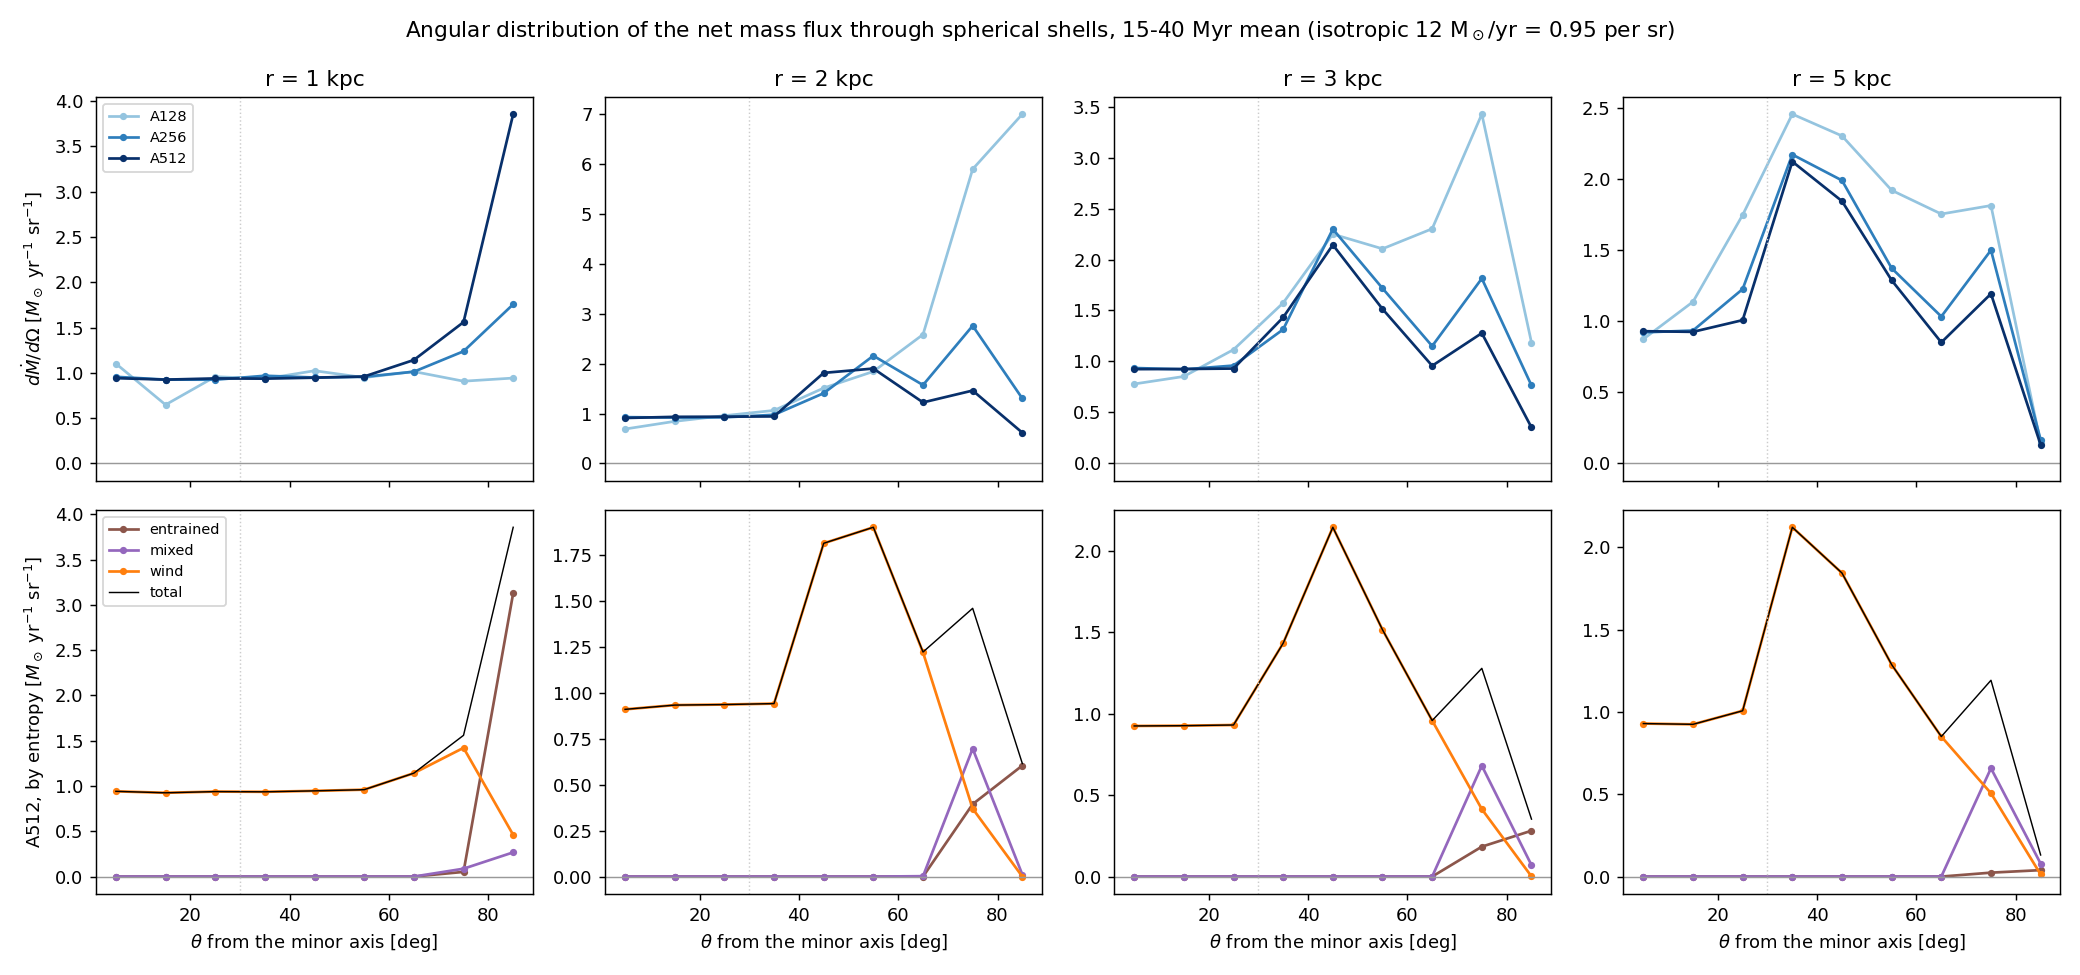
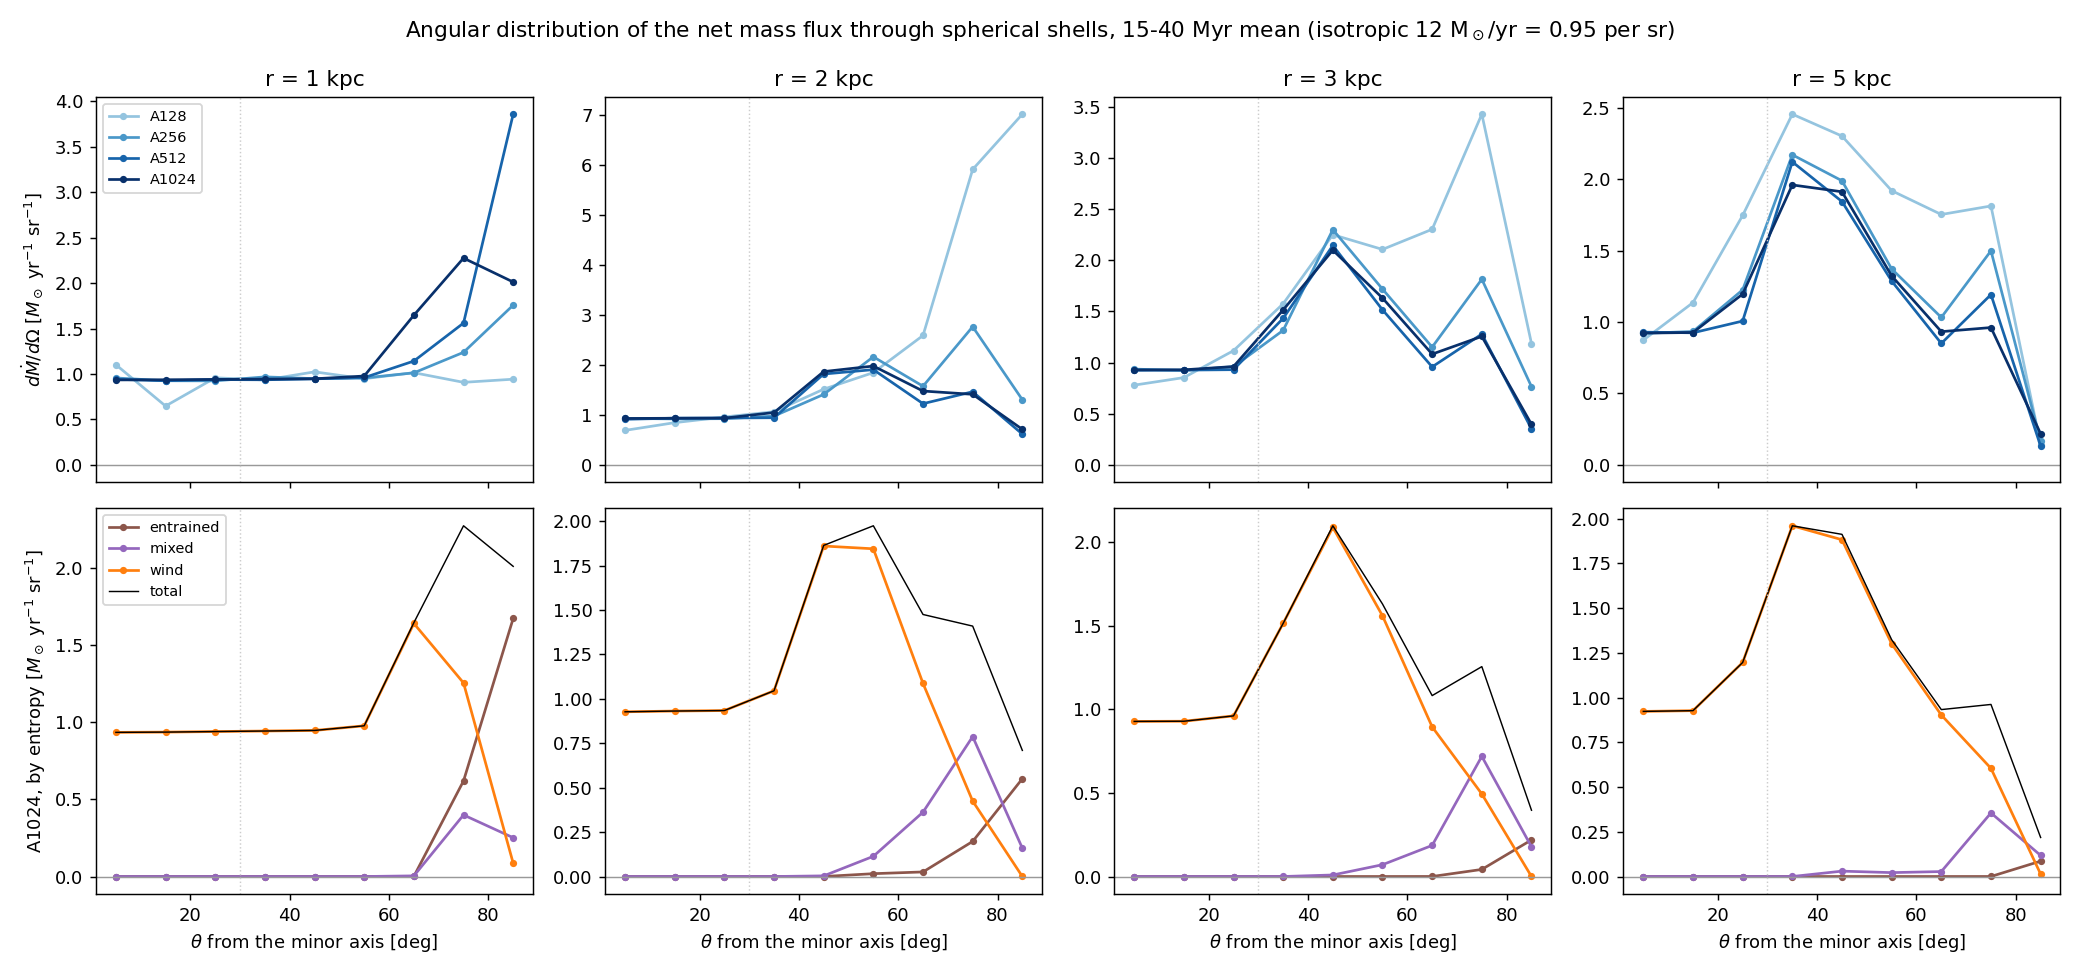
cgols_shell_fluxes: add A1024 (HoreKa job 127639), label the full sphere as the 4pi shell
A1024 shell fluxes measured on HoreKa (60 ckpts, 4.5 min on one cpu node).
4pi shell at r = 5 kpc, 15-40 Myr: 20.2 / 15.7 / 14.0 / 14.0 Msun/yr (A128-1024);
15-30 Myr (before the A1024 30-45 Myr burst): 15.7 / 13.9 / 13.4. Edot 4.9e42.

Claude-Session: https://claude.ai/code/session_01225hYmGh3HbbnbPoY1cXpk

diff --git a/pytests/self_gravity/cgols/cgols_shell_fluxes.py b/pytests/self_gravity/cgols/cgols_shell_fluxes.py
@@ -381,7 +381,7 @@ def r_centers():
 # -------------------------------------------------------------
 
 HIGH, LOW = (15.0, 40.0), (50.0, 75.0)  # Myr: high and low state of the feedback schedule
-CONES = ((30, r"30$\degree$ bicone"), (60, r"60$\degree$ bicone"), (90, r"full sphere"))
+CONES = ((30, r"30$\degree$ bicone"), (60, r"60$\degree$ bicone"), (90, r"$4\pi$ shell"))
 ENTROPY_COLORS = {"entrained": "tab:brown", "mixed": "tab:purple", "wind": "tab:orange", "halo": "0.5"}
 
 
@@ -499,7 +499,7 @@ def plot(runs, prefix="a_series"):
             _, cone60 = series(rec, lambda r_: reduce(r_, "mdot_net", 60)[i].sum())
             _, wind = series(rec, lambda r_: r_["mdot_net_K"][:, i, :, ENTROPY_BINS.index("wind")].sum())
             _, e_sphere = series(rec, lambda r_: reduce(r_, "edot_net", 90)[i].sum())
-            axes[0, col].plot(t, sphere, "-", color=c, lw=1.2, label=f"{label} sphere" if col == 0 else None)
+            axes[0, col].plot(t, sphere, "-", color=c, lw=1.2, label=f"{label} $4\\pi$ shell" if col == 0 else None)
             axes[0, col].plot(t, cone60, ":", color=c, lw=1.2, label=f"{label} 60$\\degree$ bicone" if col == 0 else None)
             axes[1, col].plot(t, e_sphere / 1e42, "-", color=c, lw=1.2)
             heights, planes = _plane_cache(tag)
@@ -511,13 +511,13 @@ def plot(runs, prefix="a_series"):
                 axes[1, col].plot(tp, e_plane / 1e42, "--", color=c, lw=1.0)
             if label == best:
                 axes[0, col].plot(t, wind, "-", color="tab:orange", lw=1.0,
-                                  label=f"{label} sphere, wind entropy only" if col == 0 else None)
+                                  label=f"{label} $4\\pi$ shell, wind entropy only" if col == 0 else None)
         axes[0, col].set_title(f"r = |z| = {radius:g} kpc")
         axes[1, col].set_xlabel("t [Myr]")
         for ax in axes[:, col]:
             ax.axhline(0, color="0.6", lw=0.8)
     axes[0, 0].set_ylabel(r"net $\dot M$ [$M_\odot$ yr$^{-1}$]")
-    axes[1, 0].set_ylabel(r"net $\dot E$ [$10^{42}$ erg s$^{-1}$]  (solid sphere, dashed planes)")
+    axes[1, 0].set_ylabel(r"net $\dot E$ [$10^{42}$ erg s$^{-1}$]  (solid $4\pi$ shell, dashed planes)")
     axes[0, 0].legend(fontsize=7, ncol=2)
     fig.suptitle("Spherical shells vs the two x-y planes")
     fig.tight_layout()
@@ -548,7 +548,7 @@ def plot(runs, prefix="a_series"):
         ax.fill_between(t, side_low + side_high, side_low + side_high + caps, color="tab:red", alpha=0.35, lw=0,
                         label="top + bottom faces")
         ax.plot(t, unbound, "k:", lw=1.0, label="of which unbound (Bernoulli > 0)")
-        ax.plot(t, sphere, "-", color="tab:green", lw=1.3, label="sphere r = 5 kpc (net)")
+        ax.plot(t, sphere, "-", color="tab:green", lw=1.3, label=r"$4\pi$ shell r = 5 kpc (net)")
         heights, planes = _plane_cache(tag)
         if planes:
             h = int(np.argmin(np.abs(heights - 5.0)))
